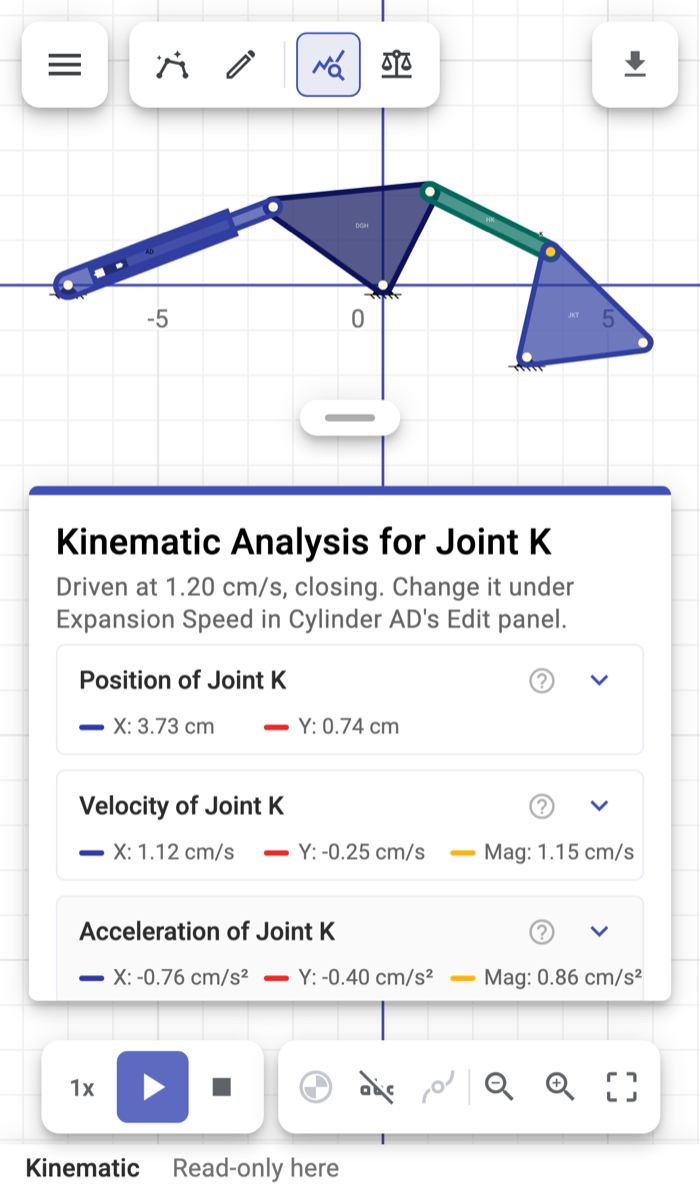
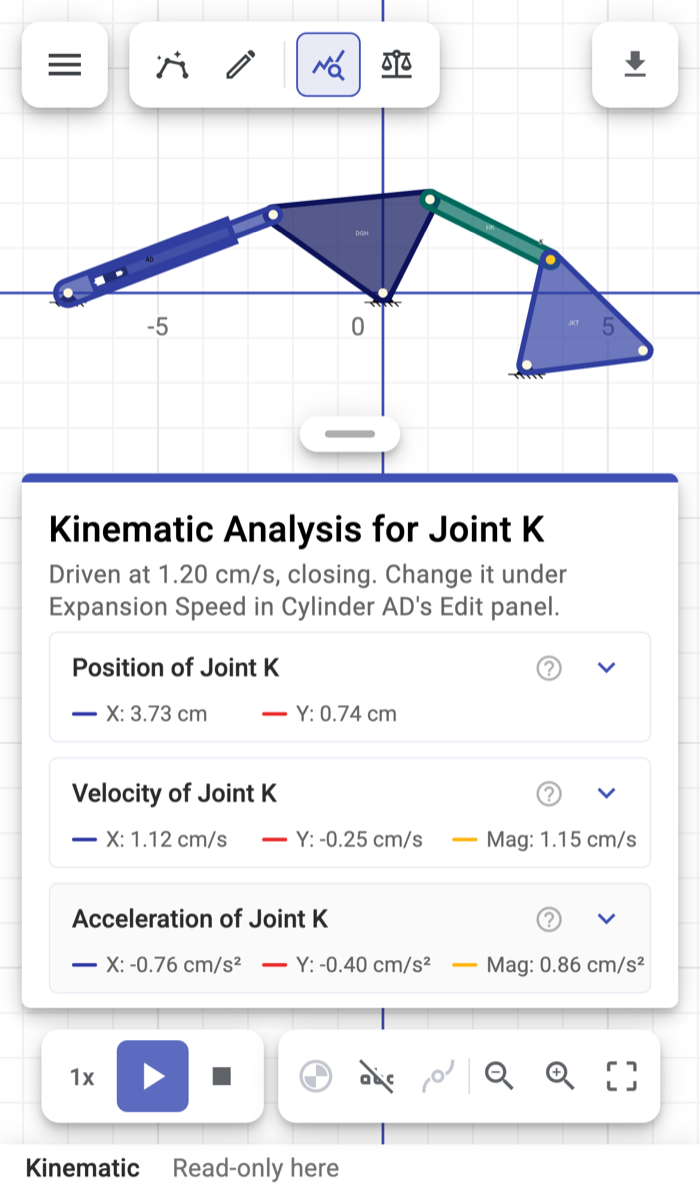
Retake the app screenshots against the new phone visuals, and count the library again
The two phone pictures were of the layout before "One gap for the phone's bottom
stack, and a sheet that slides". Both retaken, along with the desktop pair,
which the same run confirms are still in the modes they claim to be.

The library count went with it. "Add an aircraft's landing gear" takes the
catalogue to 45 drawings, three of which only appear in a development build, so
the page's 41 is now 42 — and the "34 more" card was already wrong on its own
terms, since six shown and thirty-four unshown is forty. Six and thirty-six is
forty-two. Eight families is still eight. The landing gear joins the list of
what is in there, because it is a better advertisement for the library than
another six-bar.

Counted from `template-catalog.ts` by category rather than by eye.

diff --git a/components/landing/library.tsx b/components/landing/library.tsx
@@ -3,10 +3,15 @@ import Kicker from './kicker'
 import { APP_LIBRARY } from './links'
 
 /**
- * Six of the library's families, each one running. Different mechanisms, not
- * six views of the same four-bar: a slider-crank, an engine with a disc for a
- * flywheel, a Scotch yoke, a boom worked by a hydraulic ram rather than by a
- * crank, Hoeken's straight line and a six-bar with a slider.
+ * Six of the library's forty-two, each one running.
+ *
+ * The count is the catalogue's, minus the three drawings it only offers in a
+ * development build: `template-catalog.ts` in the app, counted by category.
+ *
+ * Different mechanisms, not six views of the same four-bar: a slider-crank, an
+ * engine with a disc for a flywheel, a Scotch yoke, a boom worked by a
+ * hydraulic ram rather than by a crank, Hoeken's straight line and a six-bar
+ * with a slider.
  */
 const CARDS = [
   { id: 'slider', name: 'Slider-Crank' },
@@ -24,7 +29,7 @@ export default function Library() {
         <div>
           <Kicker className="mb-3 lg:mb-4">Library</Kicker>
           <h2 className="mb-2.5 text-[25px] font-medium leading-[1.2] tracking-[-0.015em] lg:text-[34px] lg:leading-[1.15] lg:tracking-[-0.02em]">
-            41 mechanisms, ready to run.
+            42 mechanisms, ready to run.
           </h2>
           <p className="hidden max-w-[46em] text-[15.5px] text-ink-700 lg:block lg:text-[17px]">
             Eight families, from a first slider-crank to an engine with a flywheel, a boom on a
@@ -56,11 +61,11 @@ export default function Library() {
         <div className="col-span-2 flex flex-col justify-between rounded-card bg-indigo-50 p-5 lg:p-[26px_28px]">
           <div>
             <div className="text-[26px] font-medium tracking-[-0.025em] text-indigo-700 lg:text-[32px]">
-              34 more
+              36 more
             </div>
             <p className="mt-2 max-w-[30em] text-sm leading-[1.55] text-ink-700 lg:text-[15px]">
-              Jansen legs, radial engines, backhoe and loader buckets, walking beam pumps, scissor
-              lifts, Whitworth quick returns, Watt and Stephenson six-bars.
+              Jansen legs, radial engines, an aircraft&rsquo;s landing gear, backhoe and loader
+              buckets, walking beam pumps, scissor lifts, Watt and Stephenson six-bars.
             </p>
           </div>
           <a
